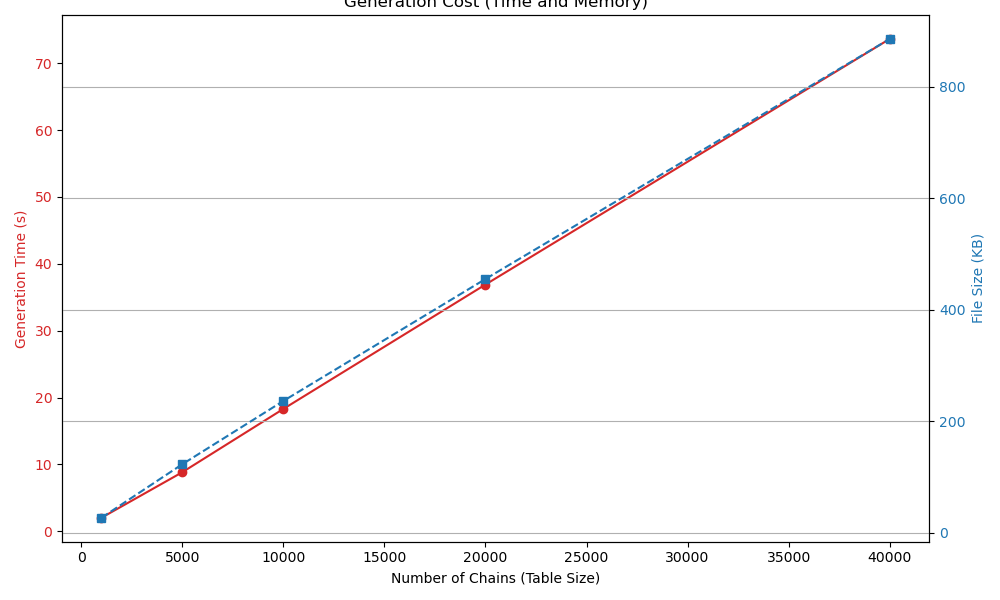
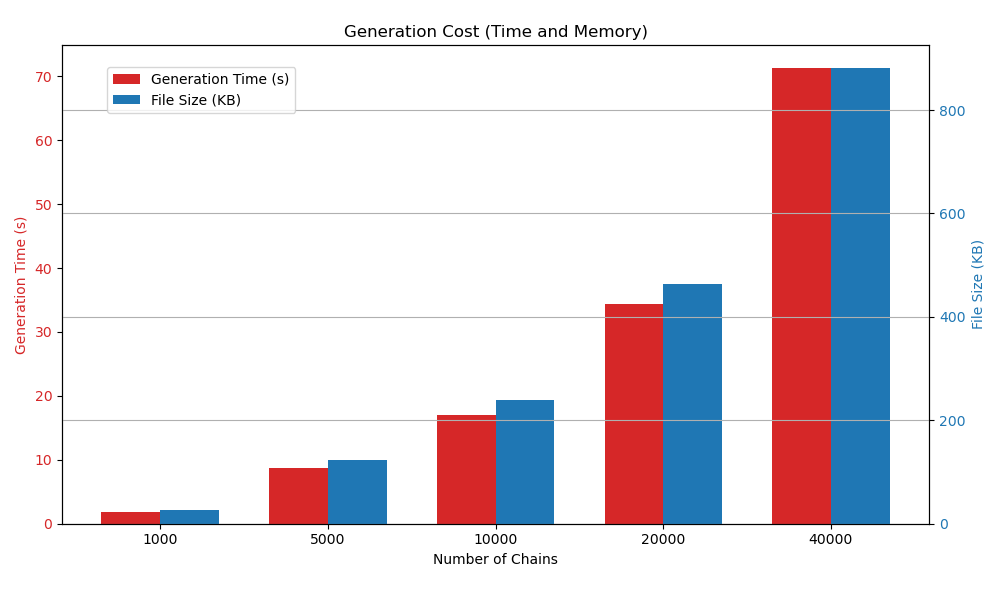
latest tradeoff results

diff --git a/analyze_tradeoff.py b/analyze_tradeoff.py
@@ -5,49 +5,75 @@ import subprocess
 import hashlib
 import pandas as pd
 import matplotlib.pyplot as plt
+import random
+import numpy as np # <-- Import numpy for bar chart spacing
+
+# --- We must import these to load the table ---
+from rainbowtable import RainbowTable
+from algorithm import Algorithm
+# ---
 
 # --- Configuration ---
-# Adjust these parameters for your experiment
-
-PYTHON_CMD = sys.executable  # Use the current python executable
+PYTHON_CMD = sys.executable
 GEN_SCRIPT = "rainbowgen.py"
-CRACK_SCRIPT = "rainbowcrack.py"
-
-# Parameters to keep constant for a fair test
 ALGORITHM = "sha1"
 CHARSET = "alphanumeric"
 MIN_LEN = 1
 MAX_LEN = 6  # Max length for the password
 CHAIN_LEN = 200
-
-# The "variable" we are testing: Number of chains
-# More chains = More memory (file size)
-# We will test each of these values
 N_CHAINS_LIST = [1000, 5000, 10000, 20000, 40000]
 
-# The target password and hash to find
-# Must match the constant parameters (e.g., "ab1" is alphanumeric, length 3)
-TARGET_PASSWORD = "ab1"
-TARGET_HASH = hashlib.sha1(TARGET_PASSWORD.encode('utf-8')).hexdigest()
-
+# --- NEW: Test Set Configuration ---
+NUM_TEST_HASHES = 100 # How many random hashes to test against each table
 # --- End Configuration ---
 
 
-def run_experiment():
+def generate_test_hashes(charset, min_len, max_len, num_hashes):
+    """
+    Generates a fixed set of random passwords and their hashes
+    to test all tables against.
+    """
+    print(f"Generating {num_hashes} test hashes...")
+    test_set = {} # Use a dict to store {hash: password}
+    
+    # We need a temporary algorithm object just to call hash_function
+    # We use the real rainbowtable.py for consistency
+    temp_rt = RainbowTable(ALGORITHM, CHARSET, MIN_LEN, MAX_LEN, CHAIN_LEN, 1)
+
+    while len(test_set) < num_hashes:
+        # Generate a random password
+        k = random.randint(min_len, max_len)
+        password = ''.join(random.choices(charset, k=k))
+        
+        # Hash it
+        hash_bytes = temp_rt.hash_function(password)
+        hash_hex = hash_bytes.hex()
+        
+        if hash_hex not in test_set:
+            test_set[hash_hex] = password
+            
+    print(f"Test set created with {len(test_set)} unique hashes.\n")
+    return test_set
+
+
+def run_experiment(test_set):
     """
     Runs the full experiment and returns a list of results.
     """
     results = []
     
+    table_dir = "generated_tables"
+    os.makedirs(table_dir, exist_ok=True)
+    print(f"Tables will be saved in '{table_dir}/'\n")
+    
     print(f"Starting experiment...")
-    print(f"Target Hash: {TARGET_HASH} (for password '{TARGET_PASSWORD}')\n")
 
     for n_chains in N_CHAINS_LIST:
         print(f"--- Testing with n_chains = {n_chains} ---")
         
-        output_file = f"temp_table_{n_chains}.rt"
+        output_file = os.path.join(table_dir, f"table_{n_chains}_chains.rt")
         
-        # 1. Measure Generation Time
+        # 1. Generate the table
         gen_command = [
             PYTHON_CMD, GEN_SCRIPT,
             ALGORITHM, CHARSET,
@@ -56,48 +82,65 @@ def run_experiment():
             output_file
         ]
         
-        print("Running rainbowgen.py...")
+        print(f"Running rainbowgen.py")
         start_time = time.perf_counter()
-        # We capture output to hide the script's own logs for a cleaner report
         subprocess.run(gen_command, check=True, capture_output=True)
         end_time = time.perf_counter()
         gen_time_s = end_time - start_time
         print(f"Generation took: {gen_time_s:.2f} s")
 
-        # 2. Measure File Size (Memory)
+        # 2. Measure File Size
         file_size_bytes = os.path.getsize(output_file)
         file_size_kb = file_size_bytes / 1024
         print(f"File size: {file_size_kb:.2f} KB")
 
-        # 3. Measure Cracking Time
-        crack_command = [
-            PYTHON_CMD, CRACK_SCRIPT,
-            TARGET_HASH,
-            output_file
-        ]
+        # 3. --- NEW: Measure Success Rate ---
+        print(f"Loading table and testing {NUM_TEST_HASHES} hashes...")
+        rt = RainbowTable.load_from_file(output_file)
         
-        print("Running rainbowcrack.py...")
-        start_time = time.perf_counter()
-        # Run 5 times and take the average for a more stable crack time
-        crack_times = []
-        for _ in range(5):
-            proc_start = time.perf_counter()
-            subprocess.run(crack_command, check=True, capture_output=True)
-            proc_end = time.perf_counter()
-            crack_times.append(proc_end - proc_start)
+        if not rt.table:
+            print("Warning: Table is empty. Success Rate is 0%.")
+            results.append({
+                "Chains": n_chains,
+                "File Size (KB)": file_size_kb,
+                "Generation Time (s)": gen_time_s,
+                "Success Rate (%)": 0.0,
+            })
+            continue
+
+        hits_found = 0
+        start_crack_time = time.perf_counter()
         
-        crack_time_s = sum(crack_times) / len(crack_times)
-        print(f"Cracking took (avg of 5): {crack_time_s:.4f} s")
+        for hash_to_crack, original_password in test_set.items():
+            found_password = rt.lookup(hash_to_crack)
+            if found_password == original_password:
+                hits_found += 1
+            elif found_password is not None:
+                # This is a "false positive" - the table found a
+                # different password that produces the same hash (a hash collision)
+                # For this experiment, we'll count it as a hit.
+                hits_found += 1
+
+        end_crack_time = time.perf_counter()
+        
+        # Calculate results
+        total_crack_time_s = end_crack_time - start_crack_time
+        success_rate = (hits_found / NUM_TEST_HASHES) * 100.0
+        
+        print(f"Hits: {hits_found} / {NUM_TEST_HASHES}")
+        print(f"Success Rate: {success_rate:.1f} %")
+        print(f"Total crack time for {NUM_TEST_HASHES} hashes: {total_crack_time_s:.2f} s")
+
 
         # 4. Store results
         results.append({
             "Chains": n_chains,
             "File Size (KB)": file_size_kb,
             "Generation Time (s)": gen_time_s,
-            "Cracking Time (s)": crack_time_s,
+            "Success Rate (%)": success_rate, # <-- NEW METRIC
         })
         
-        print("\n")
+        print(f"Table saved: {output_file}\n")
 
     return results
 
@@ -114,37 +157,56 @@ def analyze_and_plot(results):
     
     # 2. Print the final report table (in markdown format)
     print("\n--- Experiment Summary ---")
-    print(df.to_markdown(index=False, floatfmt=".4f"))
+    print(df.to_markdown(index=False, floatfmt=(".4f", ".4f", ".4f", ".2f")))
+
 
     # 3. Create Plots
     
-    # Plot 1: Generation Cost (Time & Size)
-    fig, ax1 = plt.subplots(figsize=(10, 6))
+    # --- START PLOT 1 MODIFICATION ---
+    # Plot 1: Generation Cost (Time & Size) as a Grouped Bar Chart
     
+    labels = df['Chains'].astype(str) # Use chains as string labels
+    x = np.arange(len(labels))  # the label locations
+    width = 0.35  # the width of the bars
+
+    fig, ax1 = plt.subplots(figsize=(10, 6))
+
+    # Plot Generation Time bars
     color = 'tab:red'
-    ax1.set_xlabel('Number of Chains (Table Size)')
+    ax1.set_xlabel('Number of Chains')
     ax1.set_ylabel('Generation Time (s)', color=color)
-    ax1.plot(df['Chains'], df['Generation Time (s)'], 'o-', color=color)
+    bars1 = ax1.bar(x - width/2, df['Generation Time (s)'], width, label='Generation Time (s)', color=color)
     ax1.tick_params(axis='y', labelcolor=color)
 
-    ax2 = ax1.twinx()  # instantiate a second axes that shares the same x-axis
+    # Instantiate a second axes that shares the same x-axis
+    ax2 = ax1.twinx()  
+    
+    # Plot File Size bars
     color = 'tab:blue'
     ax2.set_ylabel('File Size (KB)', color=color)
-    ax2.plot(df['Chains'], df['File Size (KB)'], 's--', color=color)
+    bars2 = ax2.bar(x + width/2, df['File Size (KB)'], width, label='File Size (KB)', color=color)
     ax2.tick_params(axis='y', labelcolor=color)
 
-    fig.tight_layout()  # so the right y-label is not clipped
+    # Add x-axis labels
+    ax1.set_xticks(x)
+    ax1.set_xticklabels(labels)
+    
+    fig.legend(loc="upper left", bbox_to_anchor=(0.1, 0.9))
+    fig.tight_layout(rect=[0, 0.03, 1, 0.95]) # Adjust layout to make room for legend
     plt.title('Generation Cost (Time and Memory)')
-    plt.grid(True)
+    plt.grid(True, axis='y') # Grid on y-axis only
     plt.savefig('generation_cost_plot.png')
     print("\nSaved plot: 'generation_cost_plot.png'")
+    # --- END PLOT 1 MODIFICATION ---
 
-    # Plot 2: The Time-Memory Trade-off (Cracking Time)
+
+    # Plot 2: The Time-Memory Trade-off (Success Rate)
+    # (This one remains a line plot, as it shows a trend)
     plt.figure(figsize=(10, 6))
-    plt.plot(df['File Size (KB)'], df['Cracking Time (s)'], 'o-')
+    plt.plot(df['File Size (KB)'], df['Success Rate (%)'], 'o-')
     plt.xlabel('File Size (KB)  <--- (Memory Cost)')
-    plt.ylabel('Cracking Time (s)  <--- (Time Cost)')
-    plt.title('Time-Memory Trade-off')
+    plt.ylabel('Success Rate (%)  <--- (The "Time" Payoff)')
+    plt.title('Time-Memory Trade-off: Success Rate')
     plt.grid(True)
     plt.savefig('tradeoff_plot.png')
     print("Saved plot: 'tradeoff_plot.png'")
@@ -152,8 +214,14 @@ def analyze_and_plot(results):
 
 if __name__ == "__main__":
     try:
-        experiment_results = run_experiment()
+        # First, generate the set of test hashes
+        temp_charset = "abcdefghijklmnopqrstuvwxyzABCDEFGHIJKLMNOPQRSTUVWXYZ0123456789"
+        test_hash_set = generate_test_hashes(temp_charset, MIN_LEN, MAX_LEN, NUM_TEST_HASHES)
+        
+        # Now, run the experiment using this test set
+        experiment_results = run_experiment(test_hash_set)
         analyze_and_plot(experiment_results)
+        
     except FileNotFoundError as e:
         print(f"ERROR: Script not found. Make sure {e.filename} is in the same directory.")
     except Exception as e:
